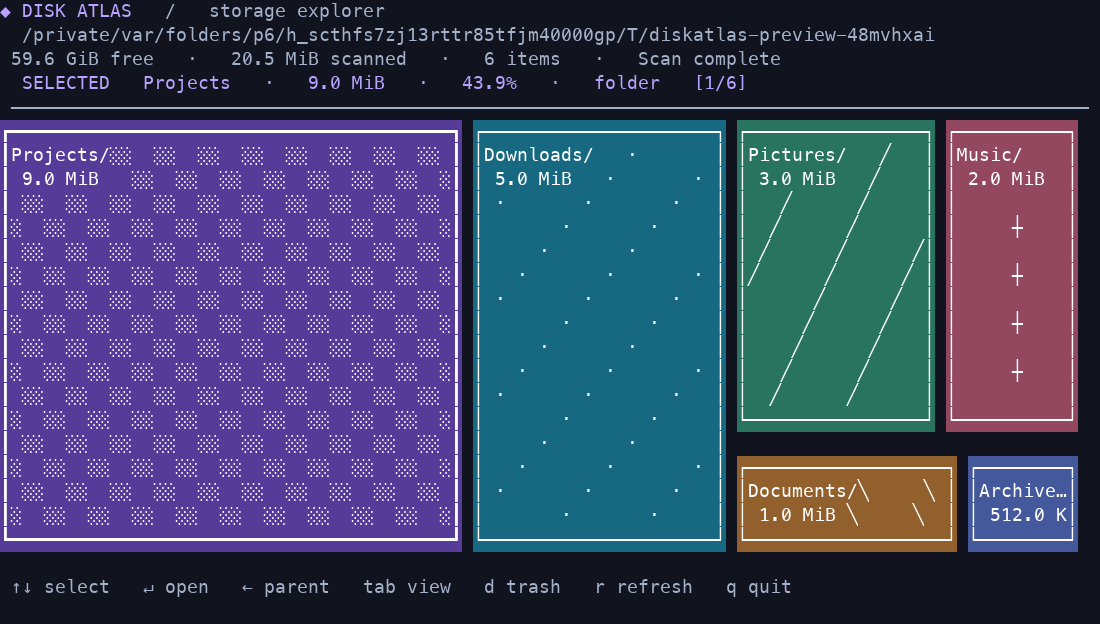
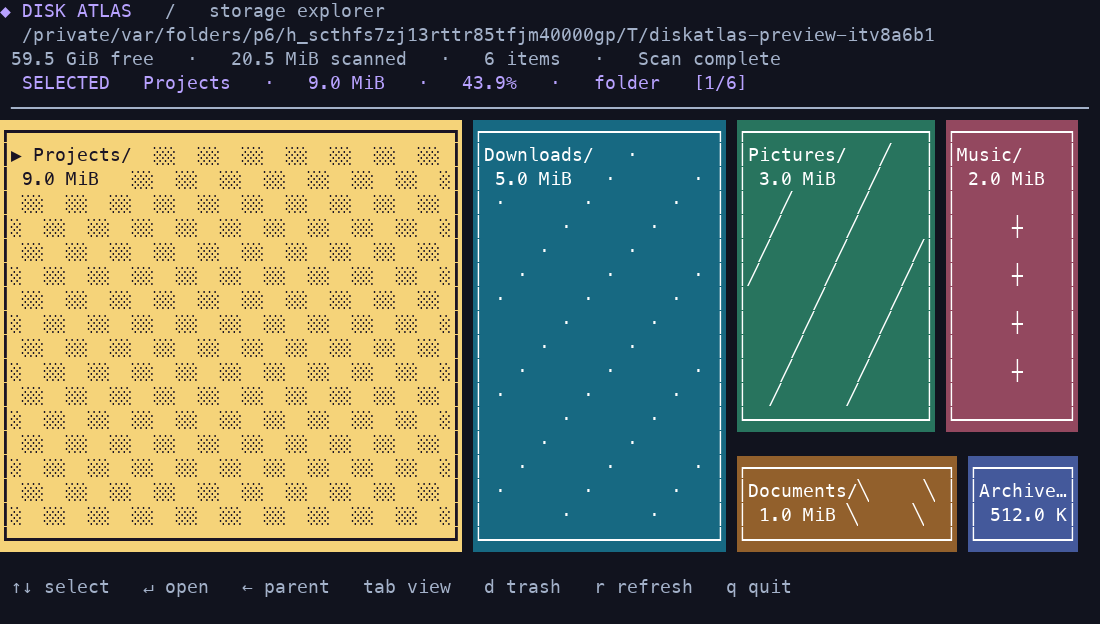
Fix Finder trash and clarify tile selection

Changed region(s): [[0.0, 0.1827, 0.4327, 0.883], [0.7727, 0.0304, 0.8345, 0.0609]]

diff --git a/main.go b/main.go
@@ -81,7 +81,7 @@ func moveToTrash(target trashTarget) tea.Cmd {
 			err = fmt.Errorf("folder changed since confirmation; rescan and try again")
 		}
 		if err == nil {
-			cmd := exec.Command("/usr/bin/osascript", "-e", "on run argv", "-e", "tell application \"Finder\" to delete (POSIX file (item 1 of argv))", "-e", "end run", target.path)
+			cmd := exec.Command("/usr/bin/osascript", "-e", "on run argv", "-e", "set targetFile to (POSIX file (item 1 of argv)) as alias", "-e", "tell application \"Finder\" to delete targetFile", "-e", "end run", target.path)
 			var out []byte
 			out, err = cmd.CombinedOutput()
 			if err != nil && len(out) > 0 {
@@ -330,6 +330,9 @@ func drawMap(items []item, sel, w, h int) string {
 				if items[a].dir {
 					name += "/"
 				}
+				if a == sel {
+					name = "▶ " + name
+				}
 				writeCells(grid, y+1, x+1, bw-2, runewidth.Truncate(name, bw-2, "…"))
 				if bh >= 4 {
 					writeCells(grid, y+2, x+1, bw-2, " "+human(items[a].size)+" ")
@@ -409,7 +412,7 @@ func drawMap(items []item, sel, w, h int) string {
 			if c.bg >= 0 {
 				style = style.Background(lipgloss.Color(palette[c.bg])).Foreground(lipgloss.Color("#FFFFFF"))
 				if c.selected {
-					style = style.Bold(true)
+					style = style.Background(lipgloss.Color("#F5D479")).Foreground(lipgloss.Color("#1A1424")).Bold(true)
 				}
 			}
 			out.WriteString(style.Render(s.String()))

diff --git a/trash_integration_test.go b/trash_integration_test.go
@@ -1,0 +1,31 @@
+package main
+
+import (
+	"os"
+	"path/filepath"
+	"testing"
+)
+
+// Opt in because Finder Automation access may require an interactive prompt.
+// The disposable test folder is moved to the user's Trash.
+func TestFinderTrashIntegration(t *testing.T) {
+	if os.Getenv("DISKATLAS_TEST_FINDER") != "1" {
+		t.Skip("set DISKATLAS_TEST_FINDER=1 to test Finder automation")
+	}
+	root := t.TempDir()
+	path := filepath.Join(root, "Disk Atlas test ' quotes")
+	if err := os.Mkdir(path, 0700); err != nil {
+		t.Fatal(err)
+	}
+	info, err := os.Lstat(path)
+	if err != nil {
+		t.Fatal(err)
+	}
+	result := moveToTrash(trashTarget{path: path, identity: info})().(trashResult)
+	if result.err != nil {
+		t.Fatal(result.err)
+	}
+	if _, err := os.Lstat(path); !os.IsNotExist(err) {
+		t.Fatalf("folder remains at original path: %v", err)
+	}
+}

diff --git a/main_test.go b/main_test.go
@@ -97,6 +97,9 @@ func TestMapAndSelection(t *testing.T) {
 	if !strings.Contains(s, "alpha") || !strings.Contains(s, "beta") {
 		t.Fatal("missing labels")
 	}
+	if !strings.Contains(s, "▶ alpha") || !strings.Contains(s, "┏") {
+		t.Fatal("selected tile needs a visible marker and heavy border")
+	}
 	m := model{items: items, path: "/tmp", width: 80, height: 24}
 	next, _ := m.Update(tea.KeyMsg{Type: tea.KeyDown})
 	if next.(model).selected != 1 {

diff --git a/docs/user-guide.md b/docs/user-guide.md
@@ -26,7 +26,7 @@ The status line shows **Scanning** while the app walks the directory. The map ap
 
 ![Treemap view of example directories](images/treemap.png)
 
-Each rectangle represents one file or folder directly inside the directory shown at the top. Its area approximates its share of the scanned entries' allocated space: larger tiles generally mean more space. Colors and patterns help distinguish tiles; they don't classify files. The heavier border marks the selected entry.
+Each rectangle represents one file or folder directly inside the directory shown at the top. Its area approximates its share of the scanned entries' allocated space: larger tiles generally mean more space. Colors and patterns help distinguish tiles; they don't classify files. A gold background, heavier border, and `▶` marker identify the selected tile; the selected name is also shown above the map.
 
 The selected line shows its name, size, percentage of scanned entries, type, and position in the size-sorted list. The free-space number is for the filesystem; it is not the amount occupied by the current directory.
 

diff --git a/README.md b/README.md
@@ -12,7 +12,7 @@ Disk Atlas is a macOS disk-usage browser built in Go with [Bubble Tea](https://g
 
 - **Treemap and list views** — compare direct children by allocated size; switch views without rescanning.
 - **Drill down** — open a folder to scan its contents, or return to its parent.
-- **Visual selection** — color and patterns distinguish tiles; a heavy border marks the selected item.
+- **Visual selection** — color and patterns distinguish tiles; gold highlighting, a heavy border, and a `▶` marker identify the selected item.
 - **Faster scans and cached navigation** — up to four top-level entries are scanned concurrently, and completed scans are reused during the current session; press `r` for fresh results.
 - **Trash with confirmation** — move a selected folder to macOS Trash after explicitly confirming. Nothing is removed automatically.
 - **Visible limitations** — inaccessible entries and cancelled scans are reported as incomplete.
